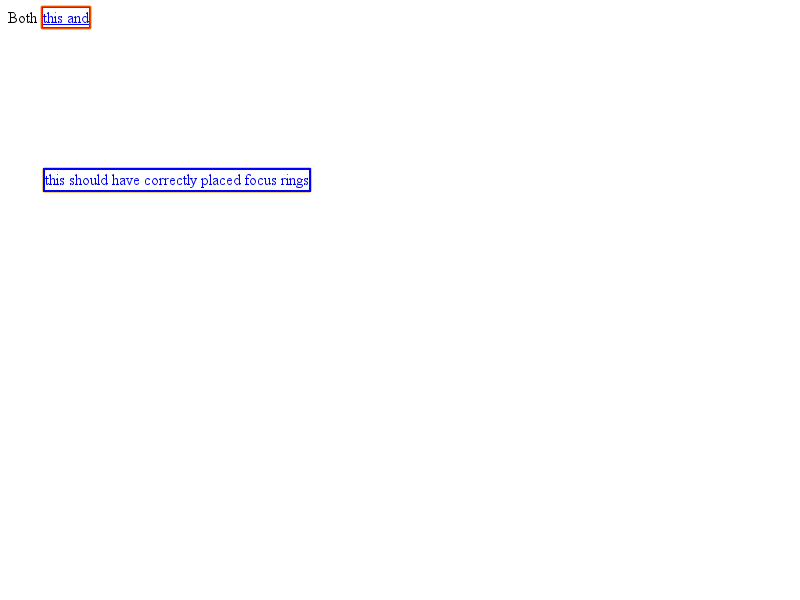
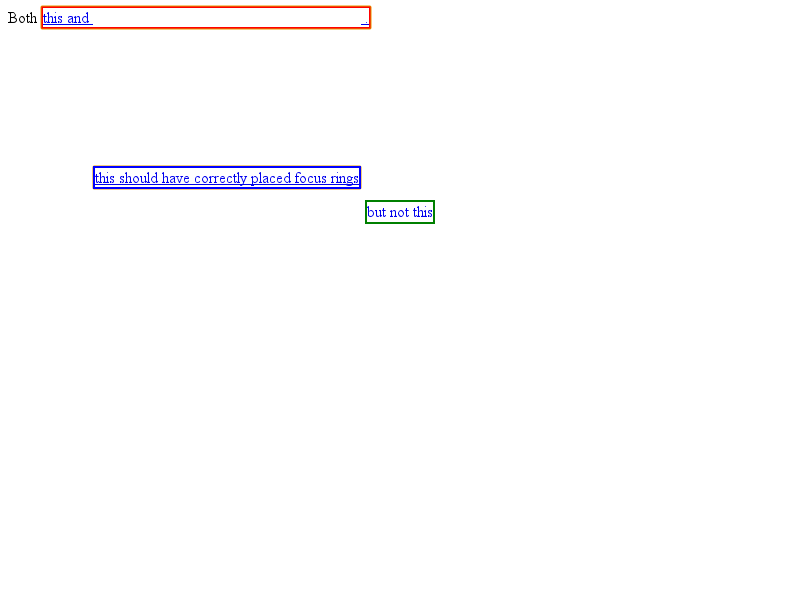
Force invalidation of focus ring to handle child changes
The shape of a focus ring may change when any child changes location,
etc. For simplicity, just force full paint invalidation of the object
having focus ring when it is marked for checking paint invalidation
for any reason.

Also avoid adding focus rings for out-of-flow-positioned children,
except that the children are actually contained by the object having
focus ring. This removes many complications, e.g. we don't need to
invalidate an inline element having focus ring on scroll when it has
a fixed-position child.

BTW fixed issue of focus rings for relative inline children.

BUG=501857
TEST=fast/repaint/focus-ring-on-child-move.html

Review URL: https://codereview.chromium.org/1216263002

git-svn-id: svn://svn.chromium.org/blink/trunk@198105 bbb929c8-8fbe-4397-9dbb-9b2b20218538

Changed region(s): [[0.0312, 0.27, 0.5625, 0.39], [0.0938, 0.0, 0.4688, 0.06]]

diff --git a/LayoutTests/fast/repaint/focus-layers.html b/LayoutTests/fast/repaint/focus-layers.html
@@ -3,14 +3,19 @@
 <style type="text/css">
 a {
     border: 2px solid red;
-    position:relative;
+    position: relative;
 }
-a span{
+a span.relative {
     border: 2px solid blue;
-    white-space:nowrap;
-    position:absolute;
-    top:10em;
-    left:0;
+    white-space: nowrap;
+    position: relative;
+    top: 10em;
+}
+a span.absolute {
+    border: 2px solid green;
+    white-space: nowrap;
+    position: absolute;
+    top: 12em;
 }
 </style>
 
@@ -18,7 +23,7 @@ a span{
 <body>
 <div>
 
-Both <a href="#" id="link">this and<span>this should have correctly placed focus rings</span></a>
+Both <a href="#" id="link">this and <span class="relative">this should have correctly placed focus rings</span> <span class = "absolute">but not this</span>.</a>
 </div>
 
 <script>

diff --git a/LayoutTests/transforms/transform-focus-ring-repaint.html b/LayoutTests/transforms/transform-focus-ring-repaint.html
@@ -9,7 +9,7 @@ onload = runRepaintTest;
 <div style="height: 50px">
 Result repaint rects should cover the whole focus ring.
 </div>
-<div id="target" style="backface-visibility: hidden; width: 200px; height: 200px; background-color: yellow">
+<div id="target" style="position: absolute; backface-visibility: hidden; width: 200px; height: 200px; background-color: yellow">
     <div style="transform: rotate(90deg); position: absolute; top: 100px; left: 100px; background-color: blue; width: 300px; height: 300px">
         <div style="position: absolute; top: 100px; left: 40px; background-color: green; width: 400px; height: 100px"></div>
     </div>

diff --git a/LayoutTests/fast/repaint/focus-ring-on-child-move.html b/LayoutTests/fast/repaint/focus-ring-on-child-move.html
@@ -1,0 +1,12 @@
+<!DOCTYPE html>
+<script src="resources/text-based-repaint.js"></script>
+<script>
+function repaintTest() {
+  document.getElementById('child').style.left = '200px';
+}
+onload = runRepaintTest;
+</script>
+Tests paint invalidation of focus ring when child moves. Passes if the focus ring is updated to contain the yellow areas.
+<div style="outline: auto; position: absolute; top: 100px; left: 100px; width: 300px; height: 20px; background-color: yellow">
+  <div id="child" style="position: absolute; top: -50px; left: 50px; width: 20px; height: 300px; background-color: yellow"></div>
+</div>

diff --git a/Source/core/layout/LayoutBoxModelObject.cpp b/Source/core/layout/LayoutBoxModelObject.cpp
@@ -376,36 +376,40 @@ void LayoutBoxModelObject::invalidateDisplayItemClientOnBacking(const DisplayIte
     }
 }
 
-void LayoutBoxModelObject::addChildFocusRingRects(Vector<LayoutRect>& rects, const LayoutPoint& additionalOffset) const
+void LayoutBoxModelObject::addFocusRingRectsForNormalChildren(Vector<LayoutRect>& rects, const LayoutPoint& additionalOffset) const
 {
-    for (LayoutObject* current = slowFirstChild(); current; current = current->nextSibling()) {
-        if (current->isText() || current->isListMarker())
-            continue;
+    for (LayoutObject* child = slowFirstChild(); child; child = child->nextSibling()) {
+        if (!child->isOutOfFlowPositioned())
+            addFocusRingRectsForDescendant(*child, rects, additionalOffset);
+    }
+}
 
-        if (!current->isBox()) {
-            current->addFocusRingRects(rects, additionalOffset);
-            continue;
-        }
+void LayoutBoxModelObject::addFocusRingRectsForDescendant(const LayoutObject& descendant, Vector<LayoutRect>& rects, const LayoutPoint& additionalOffset) const
+{
+    if (descendant.isText() || descendant.isListMarker())
+        return;
 
-        LayoutBox* box = toLayoutBox(current);
-        if (!box->hasLayer()) {
-            box->addFocusRingRects(rects, additionalOffset + box->locationOffset());
-            continue;
-        }
-
+    if (descendant.hasLayer()) {
         Vector<LayoutRect> layerFocusRingRects;
-        box->addFocusRingRects(layerFocusRingRects, LayoutPoint());
+        descendant.addFocusRingRects(layerFocusRingRects, LayoutPoint());
         for (size_t i = 0; i < layerFocusRingRects.size(); ++i) {
-            FloatQuad quadInBox = box->localToContainerQuad(FloatQuad(layerFocusRingRects[i]), this);
+            FloatQuad quadInBox = toLayoutBoxModelObject(descendant).localToContainerQuad(FloatQuad(layerFocusRingRects[i]), this);
             LayoutRect rect = LayoutRect(quadInBox.boundingBox());
             if (!rect.isEmpty()) {
                 rect.moveBy(additionalOffset);
                 rects.append(rect);
             }
         }
+        return;
     }
-}
 
+    if (descendant.isBox()) {
+        descendant.addFocusRingRects(rects, additionalOffset + toLayoutBox(descendant).locationOffset());
+        return;
+    }
+
+    descendant.addFocusRingRects(rects, additionalOffset);
+}
 
 bool LayoutBoxModelObject::calculateHasBoxDecorations() const
 {

diff --git a/Source/core/layout/LayoutObject.cpp b/Source/core/layout/LayoutObject.cpp
@@ -1392,6 +1392,12 @@ PaintInvalidationReason LayoutObject::paintInvalidationReason(const LayoutBoxMod
     if (shouldDoFullPaintInvalidation())
         return m_bitfields.fullPaintInvalidationReason();
 
+    // The focus ring may change because of position change of descendants. For simplicity,
+    // just force full paint invalidation if this object is marked for checking paint invalidation
+    // for any reason.
+    if (styleRef().outlineStyleIsAuto())
+        return PaintInvalidationFocusRing;
+
     // If the bounds are the same then we know that none of the statements below
     // can match, so we can early out since we will not need to do any
     // invalidation.

diff --git a/Source/core/layout/LayoutBoxModelObject.h b/Source/core/layout/LayoutBoxModelObject.h
@@ -223,7 +223,8 @@ protected:
     bool hasAutoHeightOrContainingBlockWithAutoHeight() const;
     LayoutBlock* containingBlockForAutoHeightDetection(Length logicalHeight) const;
 
-    void addChildFocusRingRects(Vector<LayoutRect>&, const LayoutPoint& additionalOffset) const;
+    void addFocusRingRectsForNormalChildren(Vector<LayoutRect>&, const LayoutPoint& additionalOffset) const;
+    void addFocusRingRectsForDescendant(const LayoutObject& descendant, Vector<LayoutRect>&, const LayoutPoint& additionalOffset) const;
 
     virtual void addLayerHitTestRects(LayerHitTestRects&, const DeprecatedPaintLayer*, const LayoutPoint&, const LayoutRect&) const override;
 

diff --git a/Source/core/layout/LayoutBlock.cpp b/Source/core/layout/LayoutBlock.cpp
@@ -2600,7 +2600,11 @@ void LayoutBlock::addFocusRingRects(Vector<LayoutRect>& rects, const LayoutPoint
                 rects.append(rect);
         }
 
-        addChildFocusRingRects(rects, additionalOffset);
+        addFocusRingRectsForNormalChildren(rects, additionalOffset);
+        if (TrackedLayoutBoxListHashSet* positionedObjects = this->positionedObjects()) {
+            for (auto* box : *positionedObjects)
+                addFocusRingRectsForDescendant(*box, rects, additionalOffset);
+        }
     }
 
     if (inlineElementContinuation) {

diff --git a/Source/core/layout/LayoutInline.cpp b/Source/core/layout/LayoutInline.cpp
@@ -1387,7 +1387,7 @@ void LayoutInline::addFocusRingRects(Vector<LayoutRect>& rects, const LayoutPoin
         generateLineBoxRects(context);
     }
 
-    addChildFocusRingRects(rects, additionalOffset);
+    addFocusRingRectsForNormalChildren(rects, additionalOffset);
 
     if (LayoutBoxModelObject* continuation = this->continuation()) {
         if (continuation->isInline())

diff --git a/Source/platform/graphics/PaintInvalidationReason.cpp b/Source/platform/graphics/PaintInvalidationReason.cpp
@@ -46,6 +46,8 @@ const char* paintInvalidationReasonToString(PaintInvalidationReason reason)
         return "scroll";
     case PaintInvalidationSelection:
         return "selection";
+    case PaintInvalidationFocusRing:
+        return "focus ring";
     case PaintInvalidationLayer:
         return "layer";
     case PaintInvalidationLayoutObjectInsertion:

diff --git a/Source/platform/graphics/PaintInvalidationReason.h b/Source/platform/graphics/PaintInvalidationReason.h
@@ -28,6 +28,7 @@ enum PaintInvalidationReason {
     PaintInvalidationBecameInvisible,
     PaintInvalidationScroll,
     PaintInvalidationSelection,
+    PaintInvalidationFocusRing,
     PaintInvalidationLayer,
     PaintInvalidationLayoutObjectInsertion,
     PaintInvalidationLayoutObjectRemoval,
